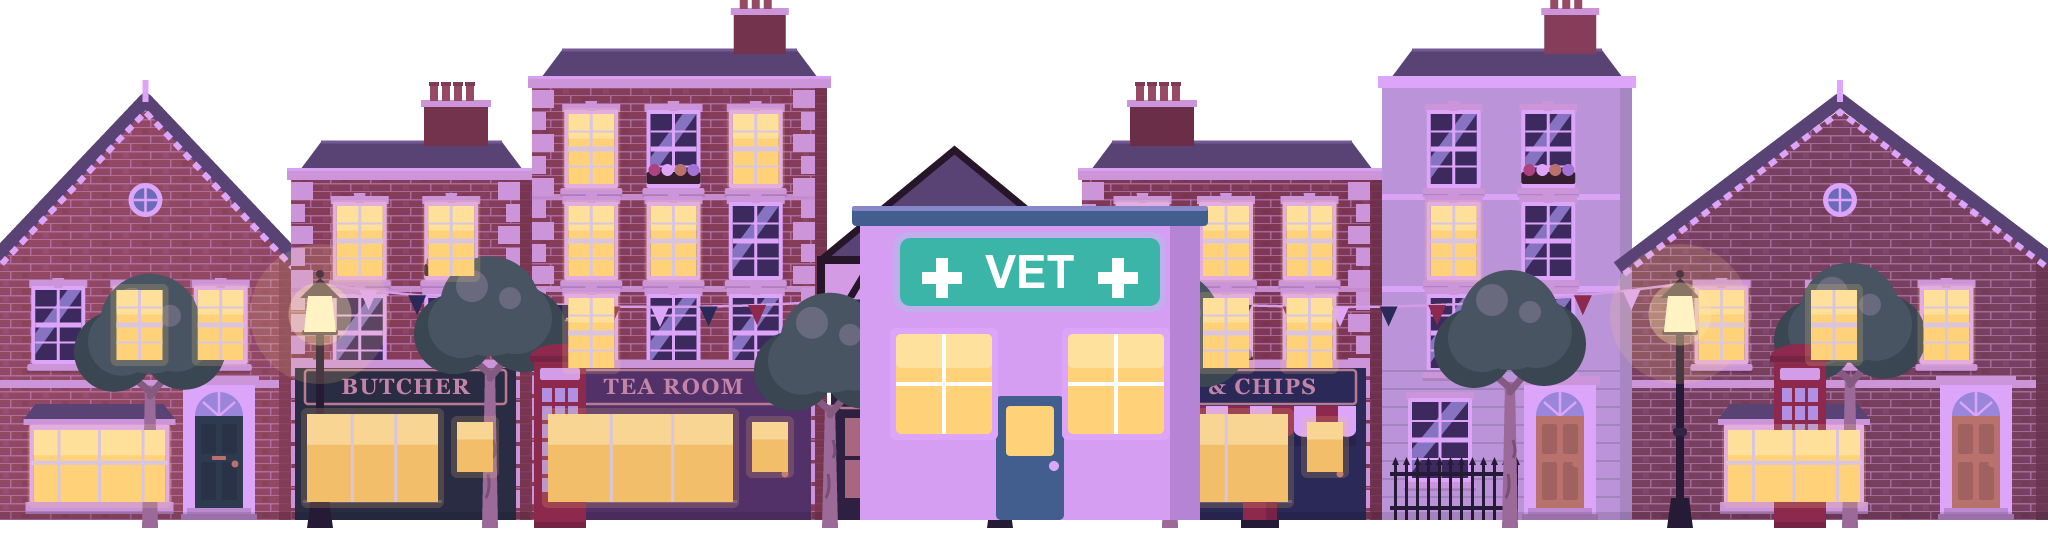
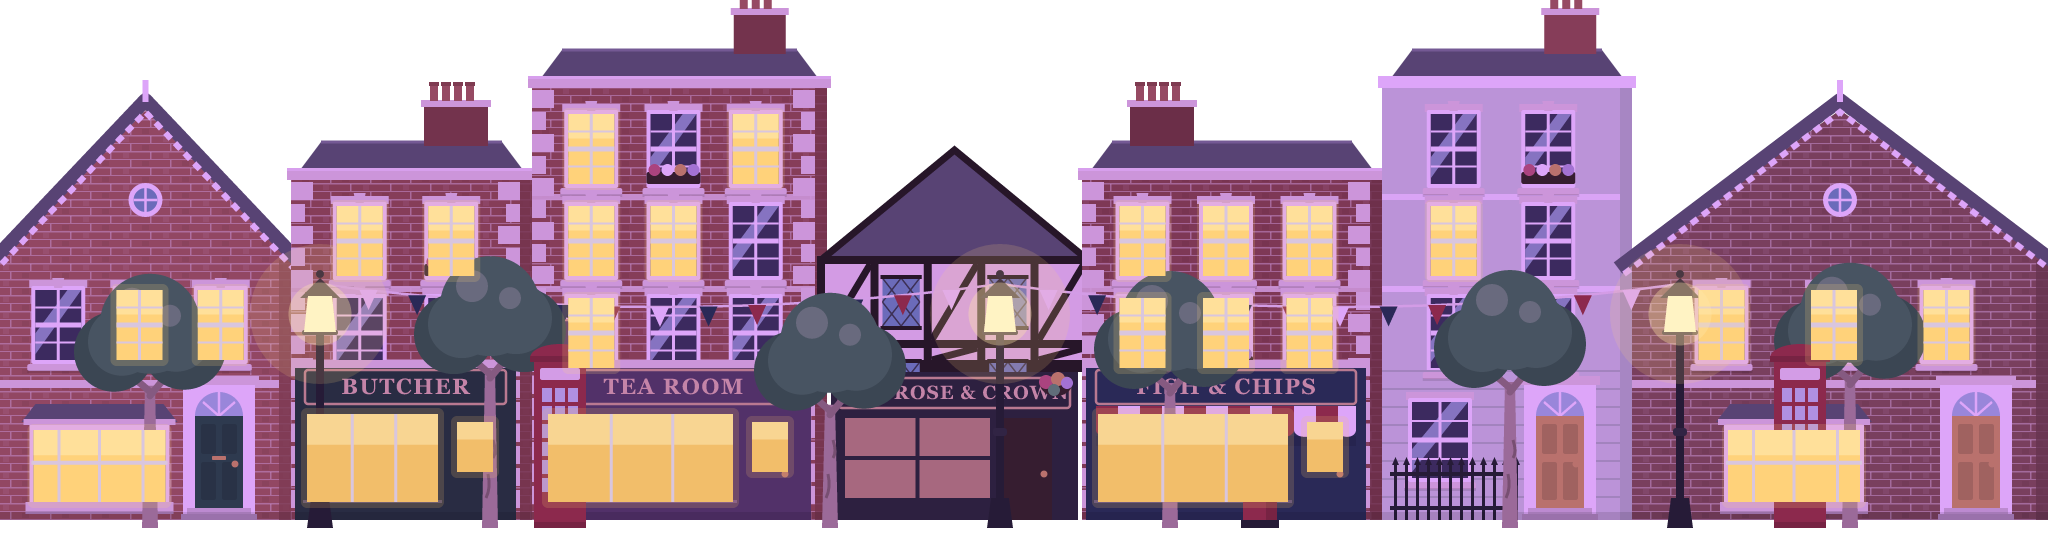
Change the story: it's bath day, and the cat always runs to the park
The family chases the cat to give it a bath, and every level ends at a
park in its own world: a corner park, a garden square and the city park,
the churchyard garden and the village green, the meadow, and Sunset Park.
Level 1 is now Bath Day and Level 8 Sunset Park. Every escape gate is a
park's entrance, with the world's own stone and sign, and the sunset's
lamplit. The vet's clinic is gone from the dusk town, catch messages end
in the bath, and the journey map ends at a park.

Changed region(s): [[0.4062, 0.3556, 0.5938, 0.9778]]

diff --git a/src/data/levels/index.js b/src/data/levels/index.js
@@ -131,9 +131,9 @@ export const LEVELS = [
     name: 'Level 1',
     light: 0xffe4cf,
     theme: 'city',
-    title: 'Vet Day',
-    intro: 'The carrier is out, and she has that look in her eye. Today is vet day. Hold the right arrow to run, and get out of the door!',
-    outro: 'You made it out of the front garden. But the family isn\'t giving up that easily.',
+    title: 'Bath Day',
+    intro: 'The bath is running, and she has a towel and that look in her eye. Today is bath day! Hold the right arrow to run, and get to the park!',
+    outro: 'You made it to the little park on the corner. But the family isn\'t giving up that easily.',
     cat: { speed: 360 },
     music: { track: 'chase', bpm: 138 },
     chase: { ownerSpeed: 252, startGap: 750, maxGap: 1200, catchGap: 110 },
@@ -164,8 +164,8 @@ export const LEVELS = [
     name: 'Level 2',
     theme: 'city',
     title: 'Main Street',
-    intro: 'The shops are opening, and everyone is in the way. The boy has joined the hunt, and he\'s quick.',
-    outro: 'Past the shops at last. Over the back fence, the city is thinning out.',
+    intro: 'The shops are opening, and everyone is in the way. The boy has joined the hunt with a sponge, and he\'s quick. The garden square is at the end of the street!',
+    outro: 'Safe in the garden square, for now. Over the railings, the city is thinning out.',
     cat: { speed: 395 },
     music: { track: 'chase', bpm: 146 },
     chase: { ownerSpeed: 285, startGap: 700, maxGap: 1200, catchGap: 110 },
@@ -202,8 +202,8 @@ export const LEVELS = [
     light: 0xfff6e6,
     theme: 'city',
     title: 'Rush Hour',
-    intro: 'Grandma was waiting at the crossroads, and she runs faster than she looks. One last dash through the city!',
-    outro: 'Even the Crown Cat couldn\'t stop you, and the city is behind you. Up ahead there are red roofs and green fields. Surely they won\'t follow you here?',
+    intro: 'Grandma was waiting at the crossroads with the shampoo, and she runs faster than she looks. One last dash through the city, to the big city park!',
+    outro: 'Even the Crown Cat couldn\'t stop you, and the city park is all yours. Beyond it there are red roofs and green fields. Surely they won\'t follow you here?',
     cat: { speed: 425 },
     music: { track: 'chase', bpm: 154 },
     chase: { ownerSpeed: 315, startGap: 700, maxGap: 1200, catchGap: 110 },
@@ -241,8 +241,8 @@ export const LEVELS = [
     name: 'Level 4',
     theme: 'park',
     title: 'Village Lane',
-    intro: 'Fresh air, flowers, and no traffic. Then you hear a familiar voice behind you. They followed you all the way here!',
-    outro: 'Through the hedge and away. The village green is just ahead.',
+    intro: 'Fresh air, flowers, and no traffic. Then you hear a familiar voice behind you, and the slosh of a bucket. They followed you all the way here! Run for the little park by the church.',
+    outro: 'Through the hedge and into the churchyard garden. The village green is just ahead.',
     cat: { speed: 410 },
     music: { track: 'village', bpm: 148 },
     chase: { ownerSpeed: 290, startGap: 750, maxGap: 1200, catchGap: 110 },
@@ -274,8 +274,8 @@ export const LEVELS = [
     light: 0xfff2d9,
     theme: 'park',
     title: 'The Village Green',
-    intro: 'It\'s market day on the green, and apples are falling from every tree. Watch your head, and don\'t stop.',
-    outro: 'Not even the Bomber Rat could stop you. Out of the village at last. There\'s a dirt road, and the smell of hay.',
+    intro: 'It\'s market day on the green, and apples are falling from every tree. Watch your head, and don\'t stop until you reach the green!',
+    outro: 'Not even the Bomber Rat could stop you, and the village green is yours. Beyond it there\'s a dirt road, and the smell of hay.',
     cat: { speed: 435 },
     music: { track: 'village', bpm: 156 },
     chase: { ownerSpeed: 330, startGap: 700, maxGap: 1200, catchGap: 110 },
@@ -314,8 +314,8 @@ export const LEVELS = [
     light: 0xffe9bd,
     theme: 'farm',
     title: 'Sunny Farm',
-    intro: 'Pumpkins, hay and very confused sheep. A farm seems like a perfect place to hide, until grandma climbs over the fence.',
-    outro: 'Not even the Ginger Gunner could stop you, and you lost the family in the barn. Or so you thought.',
+    intro: 'Pumpkins, hay and very confused sheep. A farm seems like a perfect place to hide, until grandma climbs over the fence with a towel. Head for the meadow!',
+    outro: 'Not even the Ginger Gunner could stop you. You reached the meadow and lost the family in the long grass. Or so you thought.',
     cat: { speed: 450 },
     music: { track: 'farm', bpm: 158 },
     chase: { ownerSpeed: 335, startGap: 700, maxGap: 1200, catchGap: 110 },
@@ -355,8 +355,8 @@ export const LEVELS = [
     light: 0xffd49c,
     theme: 'farm',
     title: 'Harvest Run',
-    intro: 'The whole farm is working, and the road is full. Rolling hay, swinging buckets, and the family close behind. Keep moving!',
-    outro: 'The fields end at a road. It leads back into town, and there\'s no other way out. It goes right past the vet\'s door.',
+    intro: 'The whole farm is working, and the road is full. Rolling hay, swinging buckets, and the family close behind. Keep moving, all the way to the meadow by the river!',
+    outro: 'The meadow ends at a road back into town. And at the end of it is the biggest park of all.',
     cat: { speed: 470 },
     music: { track: 'farm', bpm: 164 },
     chase: { ownerSpeed: 365, startGap: 700, maxGap: 1200, catchGap: 110 },
@@ -391,9 +391,9 @@ export const LEVELS = [
     id: 'vet-final',
     name: 'Level 8',
     theme: 'vet',
-    title: 'The Vet\'s Door',
-    intro: 'It\'s nearly dark, and the clinic lights are on. The whole family is here, all at once. Get past the door and you\'re free. This is it!',
-    outro: 'You ran right past the vet\'s door and out onto the open road. No vet today, and maybe no vet ever.',
+    title: 'Sunset Park',
+    intro: 'It\'s nearly dark, and the street lamps are on. The whole family is here, all at once, and the bath is still warm. Make it through the park gates and you\'re free. This is it!',
+    outro: 'You ran through the park gates as the sun went down. No bath today, and maybe no bath ever.',
     cat: { speed: 490 },
     music: { track: 'finale', bpm: 172 },
     chase: { ownerSpeed: 390, startGap: 650, maxGap: 1200, catchGap: 110 },

diff --git a/src/scenes/GameScene.js b/src/scenes/GameScene.js
@@ -848,7 +848,7 @@ export class GameScene extends Phaser.Scene {
       });
     }
     this.time.delayedCall(hugs ? HUG_SCREEN_DELAY_MS : END_SCREEN_DELAY_MS, () => {
-      this.showCaughtScreen(catchMessage ?? "Into the carrier you go. There's still time for one more try.");
+      this.showCaughtScreen(catchMessage ?? "Into the bath you go. There's still time for one more try.");
     });
   }
 
@@ -856,7 +856,7 @@ export class GameScene extends Phaser.Scene {
     const { hasStarted, nextIndex } = this.progress;
     this.overlay.show({
       title: 'Cat Escape',
-      message: "It's vet day, and the whole family wants to catch you. Run!\nLeft and right arrows: run, and clean running builds speed. Space: jump, and again in the air to double jump. Down arrow: slide or dive. Jump when they lunge! Collect a Super Paw box, then press E.",
+      message: "It's bath day, and the whole family wants to catch you. Run to the park!\nLeft and right arrows: run, and clean running builds speed. Space: jump, and again in the air to double jump. Down arrow: slide or dive. Jump when they lunge! Collect a Super Paw box, then press E.",
       actions: [
         { label: hasStarted ? 'Continue' : 'Play', primary: true, onClick: () => this.openScreen(nextIndex, 'intro') },
         { label: 'Levels', onClick: () => this.showLevelsScreen() },
@@ -865,7 +865,7 @@ export class GameScene extends Phaser.Scene {
     });
   }
 
-  // The level menu: a road from home to the vet, with a stop for each level.
+  // The level menu: a road from home to the parks, with a stop for each level.
   showLevelsScreen() {
     const stops = LEVELS.map((level, index) => {
       const result = this.progress.resultFor(level.id);

diff --git a/src/ui/JourneyMap.js b/src/ui/JourneyMap.js
@@ -37,7 +37,7 @@ function face(character, size, className) {
   return el;
 }
 
-// The level menu as a road from home to the vet. `stops` are the levels, in order:
+// The level menu as a road from home, past a park at the end of every level, to the last park. `stops` are the levels, in order:
 // { number, title, detail, world, locked, current, boss, onPick }, where `boss` is a character id.
 // `instant` skips the cat's walk, for the fast in-game tests.
 export function journeyMap({ stops, instant = false }) {
@@ -65,7 +65,7 @@ export function journeyMap({ stops, instant = false }) {
     map.append(band);
   });
 
-  // The road, through every stop, from home to the vet.
+  // The road, through every stop, from home to the last park.
   const svg = document.createElementNS('http://www.w3.org/2000/svg', 'svg');
   svg.setAttribute('viewBox', '0 0 100 100');
   svg.setAttribute('preserveAspectRatio', 'none');
@@ -92,10 +92,10 @@ export function journeyMap({ stops, instant = false }) {
   const home = document.createElement('span');
   home.className = 'map-end map-home';
   home.textContent = '🏠';
-  const vet = document.createElement('span');
-  vet.className = 'map-end map-vet';
-  vet.textContent = '✚';
-  map.append(home, vet);
+  const park = document.createElement('span');
+  park.className = 'map-end map-park';
+  park.textContent = '🌳';
+  map.append(home, park);
 
   // The cat waits on the level the player is up to.
   const startAt = Math.max(0, stops.findIndex((stop) => stop.current));

diff --git a/src/data/chasers.js b/src/data/chasers.js
@@ -10,21 +10,21 @@ export const CHASERS = {
   girl: {
     character: 'owner',
     speedDelta: 0,
-    catchMessage: 'So many cuddles! And then, the carrier. There\'s still time for one more try.',
+    catchMessage: 'So many cuddles! And then, the bath. There\'s still time for one more try.',
     catchSound: 'caughtHug',
   },
   boy: {
     character: 'boy',
     speedDelta: 10,
     arrival: 'The boy joins the chase. He\'s quick!',
-    catchMessage: 'He got you, and he\'s not letting go. Then it\'s the carrier. There\'s still time for one more try.',
+    catchMessage: 'He got you, and he\'s not letting go. Then it\'s bubbles for you. There\'s still time for one more try.',
     catchSound: 'caughtHug',
   },
   grandma: {
     character: 'grandma',
     speedDelta: -15,
     arrival: 'Grandma\'s coming, and she never slows down!',
-    catchMessage: 'Grandma scoops you up for a long, long cuddle. Then it\'s the carrier. There\'s still time for one more try.',
+    catchMessage: 'Grandma scoops you up for a long, long cuddle. Then it\'s the bath. There\'s still time for one more try.',
     catchSound: 'caughtHug',
   },
 };

diff --git a/src/ui/ui.css b/src/ui/ui.css
@@ -363,7 +363,7 @@ html, body, #game {
   }
 }
 
-/* ----- The journey map: the level menu as a road from home to the vet ----- */
+/* ----- The journey map: the level menu as a road from home to the last park ----- */
 
 .map {
   position: relative;
@@ -421,18 +421,9 @@ html, body, #game {
 }
 
 .map-home { left: 3%; top: 66%; }
-.map-vet {
+.map-park {
   left: 95%;
   top: 50%;
-  display: grid;
-  place-items: center;
-  width: 30px;
-  height: 30px;
-  border-radius: 8px;
-  background: #26a69a;
-  color: #fff;
-  font-weight: 700;
-  font-size: 22px;
 }
 
 /* A stop is still a .tile, so the menu's checks and focus styles apply to it. */
